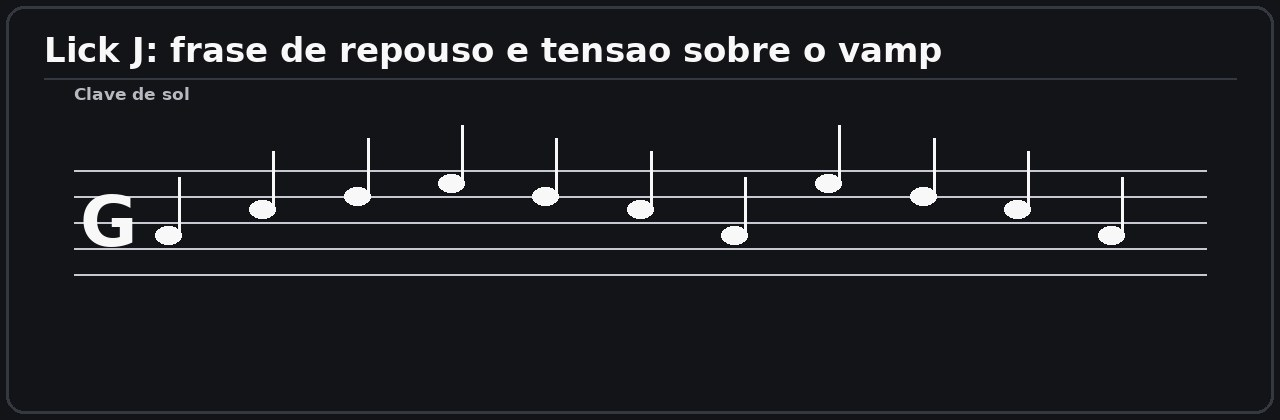
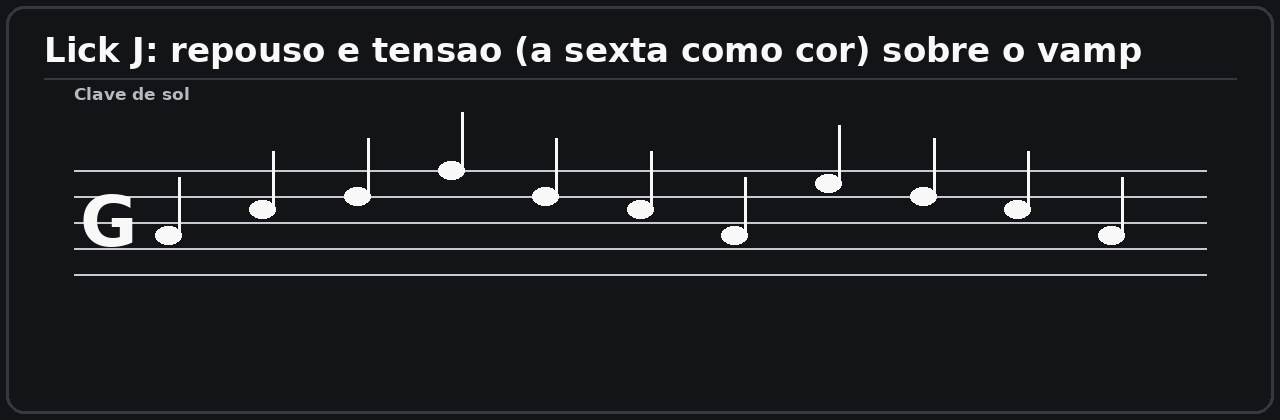
fix(conteudo): cada lick do modulo 11 cita o padrao que toca e o lick J soa a sexta
O cartao do lick imprime o id do padrao ao lado da frase, entao o padrao
citado tem de ser o que o aluno ouve.

- B, C, D, E, F, G, H e I citavam PTN-M-3rds / PTN-M-3 / PTN-A-TRIAD, mas
  as frases sao corridas de escala por graus conjuntos. Passam a citar
  PTN-M-SCALE (novo, documentado em MUSIC.md §1.A). A mantem PTN-M-3.
- O texto do topico J promete "tensao de cor (a sexta)" e a frase nao
  tocava sexta nenhuma. O lick, o audio, a partitura, o alvo de EX-11.J.1 e
  o gate passam a tocar Fa (A-C-D-F-D-C-A-E-D-C-A); m11_partitura_j e
  ScoreNotes.h foram regerados. O lick J passa a citar PTN-M-REST (novo,
  MUSIC.md §1.E), que descreve repouso e tensao em vez de uma sequencia.
- PatternSignature.h (course::patternSignatureHolds) e tres assercoes em
  testModule11: o lick toca o padrao que cita, o id existe no catalogo e o
  lick J contem a sexta. Reintroduzindo os dois defeitos a suite cai para
  8591/8595 (4 FAILs).
- Referencia de escuta de J corrigida para o nome real da faixa
  ("Black Magic Woman / Gypsy Queen").

Suite: 8595/8595 verdes; build sem avisos; rotulos conferidos na UI
(A -> PTN-M-3, B -> PTN-M-SCALE, J -> PTN-M-REST).

Changed region(s): [[0.125, 0.0929, 0.9062, 0.1548], [0.3438, 0.3714, 0.375, 0.4643]]

diff --git a/Source/Course/ModuleCatalog.cpp b/Source/Course/ModuleCatalog.cpp
@@ -5275,38 +5275,39 @@ namespace
         lick ("LK-11.A", "Grupos de três subindo na região", "John Petrucci", "PTN-M-3",
               "e|--5-7-8-7-8-10-8-10-12-10-12-13-12-13-15-13-15-17--|", "pdf-fraseado-melodico",
               { "A4", "B4", "C5", "B4", "C5", "D5", "C5", "D5", "E5", "D5", "E5", "F5", "E5", "F5", "G5", "F5", "G5", "A5" });
-        lick ("LK-11.B", "Escala ascendente e descendente", "Guthrie Govan", "PTN-M-3rds",
+        lick ("LK-11.B", "Escala ascendente e descendente", "Guthrie Govan", "PTN-M-SCALE",
               "e|--5-7-8-10-12-13-15-17-15-13-12-10-8-7-5--|", "pdf-fraseado-melodico",
               { "A4", "B4", "C5", "D5", "E5", "F5", "G5", "A5", "G5", "F5", "E5", "D5", "C5", "B4", "A4" });
-        lick ("LK-11.C", "Pentatônica menor 7 (a sétima menor)", "Richie Kotzen", "PTN-M-3",
+        lick ("LK-11.C", "Pentatônica menor 7 (a sétima menor)", "Richie Kotzen", "PTN-M-SCALE",
               "e|--5-8-10-12-15-17-15-12-10-8-5--|", "pdf-desvendando-os-segredos-da-guitarra-fusion",
               { "A4", "C5", "D5", "E5", "G5", "A5", "G5", "E5", "D5", "C5", "A4" });
-        lick ("LK-11.D", "Pentatônica menor 6 (a sexta como cor)", "Greg Howe", "PTN-M-3rds",
+        lick ("LK-11.D", "Pentatônica menor 6 (a sexta como cor)", "Greg Howe", "PTN-M-SCALE",
               "e|--5-8-10-12-14-12-10-8-5--|", "pdf-mozart-mello-improvisacion-pop",
               { "A4", "C5", "D5", "E5", "F#5", "E5", "D5", "C5", "A4" });
-        lick ("LK-11.E", "Pentatônica ligando duas posições", "Edu Ardanuy", "PTN-A-TRIAD",
+        lick ("LK-11.E", "Pentatônica ligando duas posições", "Edu Ardanuy", "PTN-M-SCALE",
               "e|--5-8-10-12-15-17-15-12-10-8-5--|", "pdf-mozart-mello-livroestudosdeguitarra4em1",
               { "A4", "C5", "D5", "E5", "G5", "A5", "G5", "E5", "D5", "C5", "A4" });
-        lick ("LK-11.F", "Trilha aberta na 3ª corda", "Joe Satriani", "PTN-M-3rds",
+        lick ("LK-11.F", "Trilha aberta na 3ª corda", "Joe Satriani", "PTN-M-SCALE",
               "G|--0-2-4-5-7-9-10-12-14--|", "pdf-fraseado-melodico",
               { "G3", "A3", "B3", "C4", "D4", "E4", "F4", "G4", "A4" });
-        lick ("LK-11.G", "Escala dentro da forma (Sistema 5)", "Kiko Loureiro", "PTN-A-TRIAD",
+        lick ("LK-11.G", "Escala dentro da forma (Sistema 5)", "Kiko Loureiro", "PTN-M-SCALE",
               "e|--5-8-10-12-13-15-17-15-12-8-5--|", "pdf-caged-e-derivaoes-de-acordes-marcelo-mello-apostila-de-violao-e-guitarra-vol1",
               { "A4", "C5", "D5", "E5", "F5", "G5", "A5", "G5", "E5", "C5", "A4" });
-        lick ("LK-11.H", "Menor harmônica (segunda aumentada)", "Yngwie Malmsteen", "PTN-M-3rds",
+        lick ("LK-11.H", "Menor harmônica (segunda aumentada)", "Yngwie Malmsteen", "PTN-M-SCALE",
               "e|--5-7-8-10-12-13-16-17-16-13-12-10-8-7-5--|", "pdf-fraseado-melodico",
               { "A4", "B4", "C5", "D5", "E5", "F5", "G#5", "A5", "G#5", "F5", "E5", "D5", "C5", "B4", "A4" });
-        lick ("LK-11.I", "Menor melódica (6ª e 7ª elevadas)", "Steve Vai", "PTN-M-3rds",
+        lick ("LK-11.I", "Menor melódica (6ª e 7ª elevadas)", "Steve Vai", "PTN-M-SCALE",
               "e|--5-7-8-10-12-14-16-17-16-14-12-10-8-7-5--|", "pdf-fraseado-melodico",
               { "A4", "B4", "C5", "D5", "E5", "F#5", "G#5", "A5", "G#5", "F#5", "E5", "D5", "C5", "B4", "A4" });
-        lick ("LK-11.J", "Frase de repouso e tensão sobre o vamp", "Santana", "PTN-M-3rds",
-              "e|--5-8-10-12-10-8-5-12-10-8-5--|", "pdf-mozart-mello-improvisacion-pop",
-              { "A4", "C5", "D5", "E5", "D5", "C5", "A4", "E5", "D5", "C5", "A4" });
+        lick ("LK-11.J", "Frase de repouso e tensão sobre o vamp", "Santana", "PTN-M-REST",
+              "e|--5-8-10-13-10-8-5-12-10-8-5--|", "pdf-mozart-mello-improvisacion-pop",
+              { "A4", "C5", "D5", "F5", "D5", "C5", "A4", "E5", "D5", "C5", "A4" });
 
-        // Simulated listening references (client request, 2026-11-18). Each song
-        // is a real recording where the cited player uses the same vocabulary as
-        // the topic's lick — never the lick itself, which is original. The UI
-        // labels all of these as "referência simulada (a mapear)".
+        // Listening references (client request, 2026-11-18). Each song is a real
+        // recording, verified track/album/year, where the cited player uses the
+        // same vocabulary as the topic's lick — never the lick itself, which is
+        // original. The UI labels each as "mesmo vocabulário, não a mesma frase"
+        // while the exact excerpt is unmapped (AGENTS.md §10, MUSIC.md §11.5).
         listen ("LK-11.A", "Dream Theater — \"Under a Glass Moon\" (Images and Words, 1992)",
                 "Sequências de grupos de três subindo a escala; mesmo desenho, frase diferente.");
         listen ("LK-11.B", "Guthrie Govan — \"Waves\" (Erotic Cakes, 2006)",
@@ -5325,7 +5326,7 @@ namespace
                 "Corridas ascendentes na menor harmônica, com a segunda aumentada; mesmo vocabulário, frase diferente.");
         listen ("LK-11.I", "Steve Vai — \"For the Love of God\" (Passion and Warfare, 1990)",
                 "Linhas cantáveis com a sexta e a sétima elevadas (menor melódica); mesmo vocabulário, frase diferente.");
-        listen ("LK-11.J", "Santana — \"Black Magic Woman\" (Abraxas, 1970)",
+        listen ("LK-11.J", "Santana — \"Black Magic Woman / Gypsy Queen\" (Abraxas, 1970)",
                 "Frases que alternam repouso no acorde e tensão de cor; mesmo vocabulário, frase diferente.");
 
         // Exercises: every one is played on the instrument and verified by the
@@ -5420,7 +5421,7 @@ namespace
 
         // --- Topic J — relação entre escalas e acordes -----------------------
         add (playable ("EX-11.J.1", "Tocar o lick J (repouso e tensão)", "Tocar o lick do tópico: a frase mistura repouso (acorde) e tensão de cor, resolvendo no acorde.",
-                       { "A4", "C5", "D5", "E5", "D5", "C5", "A4", "E5", "D5", "C5", "A4" }, "J"));
+                       { "A4", "C5", "D5", "F5", "D5", "C5", "A4", "E5", "D5", "C5", "A4" }, "J"));
         m.exercises.back().lickId = "LK-11.J";
         add (playable ("EX-11.J.2", "Arpejo de Am7", "Tocar o arpejo de Am7 (A-C-E-G) subindo e descendo, com a tônica como repouso.",
                        { "A4", "C5", "E5", "G5", "A5", "G5", "E5", "C5", "A4" }, "J"));
@@ -5433,7 +5434,7 @@ namespace
         auto& gate = m.exercises.emplace_back (playable (
             "GATE-11", "Desafio de gate — lick sobre a grade",
             "Tocar o lick do tópico J (repouso e tensão sobre o vamp de Lá menor) a 100 BPM, na grade do metrônomo.",
-            { "A4", "C5", "D5", "E5", "D5", "C5", "A4", "E5", "D5", "C5", "A4" }, "J"));
+            { "A4", "C5", "D5", "F5", "D5", "C5", "A4", "E5", "D5", "C5", "A4" }, "J"));
         gate.isGate = true;
         gate.lickId = "LK-11.J";
         gate.targetBpm = 100;
@@ -5447,9 +5448,11 @@ namespace
         // Pattern and links the module must cite (REQ-007, REQ-010).
         m.practice.patternId = "PTN-M-3";
         m.practice.patternUse = juce::String::fromUTF8 (
-            "O padrão de grupos de três (PTN-M-3) constrói as frases deste módulo: "
+            "O padrão de grupos de três (PTN-M-3) constrói a frase do tópico A: "
             "cada grupo sobe um grau, criando movimento contínuo dentro da região. "
-            "Complemento: PTN-M-3rds para ouvir as terças das escalas em movimento.");
+            "As demais frases correm a escala por graus conjuntos (PTN-M-SCALE), que "
+            "é o material de onde as sequências nascem, e a frase do tópico J alterna "
+            "repouso e tensão (PTN-M-REST).");
         m.practice.guitarists = { "John Petrucci", "Guthrie Govan", "Kiko Loureiro" };
 
         // Curated apostilas (REQ-006); see docs/MUSIC.md.

diff --git a/Source/Course/PatternSignature.h b/Source/Course/PatternSignature.h
@@ -1,0 +1,83 @@
+#pragma once
+
+#include <juce_core/juce_core.h>
+
+#include <cstdlib>
+#include <vector>
+
+namespace cursomusica::course
+{
+
+// Whether `notes` carries the musical signature of the numeric pattern it cites
+// (REQ-010). The lick card prints the pattern id beside the phrase, so a phrase
+// that cites thirds while playing stepwise seconds tells the student to expect a
+// sound that is not there.
+//
+// Patterns whose signature is not an interval shape (rhythmic ones, string
+// skipping) return true: the check only constrains what it can prove.
+inline bool patternSignatureHolds (const juce::String& patternId, const std::vector<int>& notes)
+{
+    if (notes.size() < 3)
+        return true;
+
+    std::vector<int> intervals;
+    intervals.reserve (notes.size() - 1);
+    for (size_t i = 1; i < notes.size(); ++i)
+        intervals.push_back (notes[i] - notes[i - 1]);
+
+    // 1-2-3, 2-3-4…: two steps up, then back down over the second one.
+    int groupsOfThree = 0;
+    for (size_t i = 0; i + 2 < intervals.size(); ++i)
+        if (intervals[i] > 0 && intervals[i + 1] > 0 && intervals[i + 2] == -intervals[i + 1])
+            ++groupsOfThree;
+
+    // Longest streak of consecutive leaps in one semitone class.
+    auto leaps = [&intervals] (int smallest, int largest)
+    {
+        int best = 0, run = 0;
+        for (auto interval : intervals)
+        {
+            const auto size = std::abs (interval);
+            run = (size >= smallest && size <= largest) ? run + 1 : 0;
+            best = juce::jmax (best, run);
+        }
+        return best;
+    };
+
+    // Longest run of neighbouring notes walking one direction (a scale run).
+    auto stepwiseNotes = [&intervals]
+    {
+        int best = 0, run = 0;
+        for (size_t i = 0; i < intervals.size(); ++i)
+        {
+            const auto sameDirection = i > 0 && (intervals[i] > 0) == (intervals[i - 1] > 0);
+            run = std::abs (intervals[i]) <= 4 ? (sameDirection ? run + 1 : 1) : 0;
+            best = juce::jmax (best, run);
+        }
+        return best > 0 ? best + 1 : 0;
+    };
+
+    if (patternId == "PTN-M-3" || patternId == "PTN-M-TRIQ")
+        return groupsOfThree >= 2;
+    if (patternId == "PTN-M-3rds")
+        return leaps (3, 4) >= 3;
+    if (patternId == "PTN-M-4ths")
+        return leaps (5, 6) >= 3;
+    if (patternId == "PTN-A-TRIAD")
+        return leaps (3, 4) >= 2;
+    if (patternId == "PTN-A-DROP2" || patternId == "PTN-A-DROP3")
+        return leaps (3, 4) >= 3;
+    if (patternId == "PTN-M-SCALE")
+        return stepwiseNotes() >= 5;
+
+    // A rest/tension phrase is not an interval shape: it alternates chord tones
+    // (rest) with a colour tension and resolves. What can be proven here is that
+    // it moves by more than a scale run would — it leaps at least once — so a
+    // phrase made only of neighbouring notes cannot claim to be one.
+    if (patternId == "PTN-M-REST")
+        return leaps (3, 12) >= 1 && stepwiseNotes() < (int) notes.size();
+
+    return true;
+}
+
+} // namespace cursomusica::course

diff --git a/tests/TestMain.cpp b/tests/TestMain.cpp
@@ -21,6 +21,7 @@
 #include "Course/Intervals.h"
 #include "Course/BackingProgression.h"
 #include "Course/ApostilaLabel.h"
+#include "Course/PatternSignature.h"
 #include "Course/ModuleCatalog.h"
 #include "Audio/BackingTrack.h"
 #include "Course/NoteMath.h"
@@ -3488,7 +3489,26 @@ void testModule11()
                    juce::String ("lick ") + found->id + " cites a guitarist (REQ-007)");
             check (found->patternId.isNotEmpty(),
                    juce::String ("lick ") + found->id + " cites a pattern (REQ-010)");
+
+            // The card prints the pattern id beside the phrase, so the phrase
+            // must actually carry that pattern's signature: a lick that cites
+            // thirds while playing stepwise seconds teaches the wrong sound.
+            check (course::patternSignatureHolds (found->patternId, found->notes),
+                   juce::String ("lick ") + found->id + " plays the pattern it cites ("
+                       + found->patternId + ")");
         }
+    }
+
+    // Every pattern id a lick cites exists in the catalogue (docs/MUSIC.md §1),
+    // so the card never names an id the course does not define.
+    {
+        const juce::StringArray catalogue { "PTN-M-3", "PTN-M-4", "PTN-M-SCALE",
+                                            "PTN-M-3rds", "PTN-M-4ths", "PTN-M-TRIQ",
+                                            "PTN-M-P31", "PTN-M-SKIP", "PTN-M-REST",
+                                            "PTN-A-TRIAD", "PTN-A-DROP2", "PTN-A-DROP3" };
+        for (const auto& lick : m11->licks)
+            check (catalogue.contains (lick.patternId),
+                   juce::String ("lick ") + lick.id + " cites a catalogued pattern id");
     }
 
     // The tab is the written reading of the phrase: every fret it names, on the
@@ -3601,6 +3621,24 @@ void testModule11()
             check (targetMidi == lk->notes,
                    juce::String ("the lick exercise of topic ") + topic.id
                        + " obliges exactly the lick notes");
+        }
+    }
+
+    // The topic J lick is the module's rest/tension phrase: its text promises the
+    // sixth as the colour tension, so the phrase must actually sound it. Without
+    // the sixth the lesson names a sound the student never hears.
+    {
+        const Lick* jLick = nullptr;
+        for (const auto& l : m11->licks)
+            if (l.id == "LK-11.J")
+                jLick = &l;
+        check (jLick != nullptr, "module 11 has the topic J lick");
+        if (jLick != nullptr)
+        {
+            // A minor: A=9. The sixth above the root is F (pitch class 5).
+            const bool soundsSixth = std::any_of (jLick->notes.begin(), jLick->notes.end(),
+                                                  [] (int midi) { return midi % 12 == 5; });
+            check (soundsSixth, "the topic J lick sounds the sixth it announces as tension");
         }
     }
 

diff --git a/Source/Course/Content/Topic11J.cpp b/Source/Course/Content/Topic11J.cpp
@@ -46,9 +46,9 @@ std::vector<ContentItem> topic11J()
         h ("O lick deste tópico"),
         p (
             "O lick abaixo é uma frase que mistura repouso e tensão sobre um vamp de Lá menor: começa na escala (repouso), passa por uma tensão de cor (a sexta) e resolve numa nota do acorde. É um gesto de fraseado sobre vamp modal, na linha de Santana — frases cantáveis que respiram sobre um só centro. Ouça como a frase sabe quando repousar e quando pedir."),
-        aud ({ "A4", "C5", "D5", "E5", "D5", "C5", "A4", "E5", "D5", "C5", "A4" },
+        aud ({ "A4", "C5", "D5", "F5", "D5", "C5", "A4", "E5", "D5", "C5", "A4" },
              "Lick do tópico J: frase sobre o vamp de Lá menor. As notas do acorde repousam; a sexta é tensão de cor; a frase resolve no A."),
-        part ("m11_partitura_j", { "A4", "C5", "D5", "E5", "D5", "C5", "A4", "E5", "D5", "C5", "A4" },
+        part ("m11_partitura_j", { "A4", "C5", "D5", "F5", "D5", "C5", "A4", "E5", "D5", "C5", "A4" },
               "Partitura do lick J: frase de repouso e tensão sobre o vamp. A resolução cai numa nota do acorde."),
 
         h ("O vamp tonal deste módulo"),

diff --git a/Source/Course/Content/ScoreNotes.h b/Source/Course/Content/ScoreNotes.h
@@ -39,7 +39,7 @@ inline const std::vector<Entry>& all()
         { "m11_partitura_g", { 69, 72, 74, 76, 77, 79, 81, 79, 76, 72, 69 } },
         { "m11_partitura_h", { 69, 71, 72, 74, 76, 77, 80, 81, 80, 77, 76, 74, 72, 71, 69 } },
         { "m11_partitura_i", { 69, 71, 72, 74, 76, 78, 80, 81, 80, 78, 76, 74, 72, 71, 69 } },
-        { "m11_partitura_j", { 69, 72, 74, 76, 74, 72, 69, 76, 74, 72, 69 } },
+        { "m11_partitura_j", { 69, 72, 74, 77, 74, 72, 69, 76, 74, 72, 69 } },
         { "m2_partitura_arpejo", { 60, 64, 67, 72, 67, 64, 60 } },
         { "m2_partitura_intervalos", { 60, 62, 64, 65, 67, 69, 71, 72 } },
         { "m2_partitura_terca", { 60, 64 } },

diff --git a/tools/make_diagrams.py b/tools/make_diagrams.py
@@ -3788,10 +3788,10 @@ def d_m11_partitura_i():
 
 def d_m11_partitura_j():
     return _m11_score("m11_partitura_j",
-                      [("A", 4, None), ("C", 5, None), ("D", 5, None), ("E", 5, None), ("D", 5, None),
+                      [("A", 4, None), ("C", 5, None), ("D", 5, None), ("F", 5, None), ("D", 5, None),
                        ("C", 5, None), ("A", 4, None), ("E", 5, None), ("D", 5, None), ("C", 5, None),
                        ("A", 4, None)],
-                      "Lick J: frase de repouso e tensao sobre o vamp")
+                      "Lick J: repouso e tensao (a sexta como cor) sobre o vamp")
 
 
 DIAGRAMS.update({

diff --git a/AGENTS.md b/AGENTS.md
@@ -386,6 +386,7 @@ Uma entrega só é "pronta" quando:
 | 2026-11-16 | integrador | **Integração das Etapas 3–10 (módulos 3–10) na branch `integra-modulos-3-10`.** As 8 branches de Etapa foram criadas do mesmo ponto de `test` (`40d10ef`) e conflitavam nos arquivos compartilhados; a integração resolve os conflitos por **união** (nenhum módulo descartado). `Source/Course/ModuleCatalog.cpp` foi reconstruído deterministicamente: `makeModule3()`..`makeModule10()` em ordem, os helpers de acorde do módulo 8 (`chordExercise`/`progressionExercise`) preservados, e o vetor de `getModules()` com `makeModule1..10` + placeholders 11..20 (a antiga regra "3..20 são placeholders" deixa de existir). `tests/TestMain.cpp` unificado com os `testModule3()`..`testModule10()`, o helper genérico `checkModuleCatalogShape()` (números únicos 1..20, âncora do módulo 1, todo `implemented` com lições/exercícios e achável por `findModule`) como **única** verificação do catálogo, e os helpers de coerência áudio↔legenda do módulo 6 (`declaredChords`/`namedScale`) preservados. `tools/make_diagrams.py` reconstruído a partir da versão do módulo 9 (que emite `Source/Course/Content/ScoreNotes.h`) somando os blocos `d_m3_*`..`d_m10_*` e a validação de nota do `staff()` do módulo 10; `CMakeLists.txt` (dois alvos) e `Source/Course/Content/Topics.h` unidos; `AGENTS.md` e `docs/MUSIC.md` unidos. Evidência: app + testes compilam **sem avisos**, suíte em **7192/7192 checagens verdes** (offline) e `ctest` verde; `python3 tools/make_diagrams.py` idempotente (`ScoreNotes.h` cobre as 44 partituras) | Os 8 módulos (Etapas 3–10) passam a coexistir numa única branch pronta para revisão final do release; `test` recebe o curso integrado |
 | 2026-11-17 | developer + qa | **Teste de uso executável (aceitação do cliente) e correção do painel de plugins.** Novo alvo console `CursoMusicaUsageTest` (`tests/usage/UsageTest.cpp`, ligado por `-DCURSOMUSICA_USAGE_TEST=ON`) que dirige as classes **reais** (sem mocks) na ordem do roteiro do cliente: (1) banco — `ensureSchema` cria o schema `curso-musica` e as 3 tabelas no PostgreSQL (porta padrão 5432), grava/lê/reseta; (2) VST3 — um plugin **de verdade** (`tests/usage/TestPlugin.cpp`, alvo `juce_add_plugin` `CursoMusicaTestPlugin`) é escrito numa pasta, a pasta entra em `PluginSearchPaths`, o Scan lista o plugin e "Add input chain" o tira do painel superior; (3) áudio — `AudioEngine` abre entrada/saída e o afinador reconhece E2/A2/D3 (silêncio → 0 Hz); (4) módulos — `EX-2.B.2` e o 1º/último tópico do último módulo implementado. O passo 2 revelou o defeito **QA-005**: o plugin **não saía do painel superior** ao entrar na cadeia, porque `createIdentifierString()` difere entre o scan (caminho do bundle `.vst3`) e a instância (binário interno `.so`) — corrigido com a chave estável `pluginchain::stableKey()` (`Source/Audio/PluginChainModel.h`), usada por `SettingsComponent`. Evidência: **38/38 checagens do teste de uso** e **7238/7238 da suíte unitária** verdes em `tools/usage-test.sh` (JACK dummy + PostgreSQL 17 em 5432); app, plugin e harness compilam sem avisos. Novo workflow `.github/workflows/usage-test.yml` (job Linux sempre, job **Windows em instalação limpa** em `test`/`main`) | O cliente tem um teste de uso **executável e verificável** (a "prova" que o `docs/QA.md` exige); o fluxo VST3 (pasta → scan → cadeia) passa a se comportar como o roteiro descreve |
 | 2026-11-17 | developer + qa | **Afinador reconhece a entrada configurada (QA-006).** O aluno escolhia entrada/saída em Configurações, saía e abria o Afinador — e não afinava. Causa: `AudioEngine::initialise()` sempre chamava `openBestInputDevice()`, que abre o **primeiro** dispositivo do backend; a escolha feita nas Configurações **não era persistida**, então a cada arranque o motor voltava para a entrada errada (dentro da mesma sessão a troca valia — daí o sintoma "só depois de reabrir"). Correção: novo `Source/Audio/DeviceSettings.*` (`DeviceSelection` serializável + `deviceSelectionIsAvailable`, lógica pura) e o `AudioEngine` passa a gravar a escolha em `audio/deviceSelection` (via `ChangeListener` do `AudioDeviceManager` e no `shutdown()`) e a **restaurá-la** no `initialise()`, caindo para a varredura padrão só quando não há escolha salva ou o dispositivo sumiu (desconectado ou backend diferente). Testes: `testDeviceSettings` (17 checagens) e o passo 3b do teste de uso (escolhe a 2ª entrada, reinicia o motor, exige a mesma) — **regressão verificada** (com a restauração desligada o passo volta a `TestAudio-inA`). Evidência: **7230/7230** na suíte e **25 checagens, 0 falhas** no teste de uso; app, testes e harness sem avisos | `Source/Audio/DeviceSettings.*`; `Source/Audio/AudioEngine.*`; `CMakeLists.txt`; `tests/TestMain.cpp`; `tests/usage/UsageTest.cpp`; `docs/QA.md` (QA-006) |
+| 2026-11-17 | developer + musician + qa | **Módulo 11: cada lick cita o padrão que de fato toca, e a frase do tópico J soa a sexta que anuncia (T2).** Dois defeitos de conteúdo no módulo 11 (Referências de escalas e domínio do braço): (1) **rótulo de padrão falso** — B, D, F, H, I citavam `PTN-M-3rds` (terças) e C, E, G citavam `PTN-M-3`/`PTN-A-TRIAD` (grupos de três/tríade), mas todas essas frases são **corridas de escala** por graus conjuntos; o cartão imprimia ao lado da frase um padrão que o aluno não ouvia. Criado `PTN-M-REST` para a frase de repouso/tensão (J) e `PTN-M-SCALE` para as corridas (documentados em `docs/MUSIC.md` §1.A e §1.E); A mantém `PTN-M-3`, que é o que toca. (2) **tensão ausente no lick J** — o texto prometia "tensão de cor (a sexta)", mas a frase tocava só A-C-D-E (acorde + 2ª): nenhuma sexta. O lick, o áudio do tópico, a partitura, o alvo de `EX-11.J.1` e o gate passaram a tocar **Fá** (A-C-D-**F**-D-C-A-E-D-C-A), e a partitura `m11_partitura_j` foi regerada (`tools/make_diagrams.py` + `ScoreNotes.h`). Prevenção: novo `Source/Course/PatternSignature.h` (`course::patternSignatureHolds` — lógica pura: grupos de três, saltos de 3ª/4ª, corrida por graus conjuntos, frase de repouso) e três asserções em `testModule11()`: o lick **toca** o padrão que cita, o id citado **existe** no catálogo, e o lick J **contém** a sexta (classe 5 em Lá menor). **Regressão verificada**: reintroduzindo os dois defeitos originais a suíte cai para **8591/8595** com 4 FAILs (assinatura de B, pauta×áudio de J, alvo de J e a sexta ausente). Também corrigida a referência de escuta de J para o nome real da faixa (*Black Magic Woman / Gypsy Queen*) e o comentário que ainda chamava as referências de "simuladas". Evidência: **8595/8595** verdes, build sem avisos, e os três rótulos conferidos na UI sob Xvfb (A → `PTN-M-3`, B → `PTN-M-SCALE`, J → `PTN-M-REST`) | `Source/Course/PatternSignature.h` (novo); `Source/Course/ModuleCatalog.cpp`; `Source/Course/Content/Topic11J.cpp`; `Source/Course/Content/ScoreNotes.h`; `tools/make_diagrams.py`; `docs/MUSIC.md` §1.A/§1.E/§11.5; `tests/TestMain.cpp` |
 | 2026-11-17 | integrador + qa | **Merge do teste de uso em `test` e republicação do instalador.** PR #23 (`feat/teste-de-uso` → `test`) mesclado (`--no-ff`, commit `e135a43`); backup `backup/feat-teste-de-uso-pre-merge` e tag `backup-feat-teste-de-uso-20261117` criados antes do push (§11). O push em `test` rodou o `release.yml` (run `43989947149`, success) e um `workflow_dispatch` com `commit_installer=true` (run `43990893261`, success) commitou o instalador (commit `af107e4`, 14.261.315 bytes, PE32, sha256 `94b748dc…`). O job **Windows** do `usage-test` reprovou por dois defeitos do próprio workflow, ambos corrigidos na branch `fix/usage-test-windows`: (a) o `choco install postgresql17` não define a senha do `postgres` quando a imagem já traz um PostgreSQL, e o job morria em "password authentication failed for user postgres" — agora sobe um cluster descartável com `initdb --auth=trust`; (b) o `-DPostgreSQL_ROOT` com `\` era escrito no `stage-windows-runtime.cmake` e quebrava o parser do CMake ("Invalid character escape '\P'") — as barras passam a ser normalizadas. O harness ganhou log por linha (`usage-test.log`), guarda por passo e encerramento `_Exit` pelo resultado das checagens, porque no Windows o processo morria com `0xC0000005` na destruição estática **depois** de todas as checagens passarem. Evidência: run `44000331070` com **Linux e Windows verdes** (Windows: 31 checagens, 0 falhas, 1 pulo legítimo por não haver dispositivo de áudio) | A versão de teste passa a ser provada no Windows — a plataforma onde o `.exe` roda — e não só no Linux |
 | 2026-11-17 | integrador + qa | **Merges de #24 e #25 em `test` e republicação do instalador (com a regra do teste de uso antes de publicar).** PR #24 (`fix/usage-test-windows`) mesclado (`8df9fbb`); PR #25 (`fix/afinador-dispositivo-configurado`, QA-006) conflitava em `AGENTS.md` e `tests/usage/UsageTest.cpp` — resolvido localmente mantendo as duas entradas do registro e integrando o passo 3b ao array guardado do harness do Windows (`daa0787`). Backup `backup/pre-merge-afinador-test` + tag criados antes do push (§11). **Regra nova do cliente: rodar o teste de uso antes de todo push/merge** — cumprida: build limpo sem avisos, **7229/7229** na suíte unitária e **41 checagens, 0 falhas, 0 pulos** no teste de uso (`tools/usage-test.sh`, com PostgreSQL 17 em 5432 via docker e JACK dummy), incluindo o novo passo 3b (o dispositivo escolhido nas Configurações sobrevive ao reinício). PR #25 mesclado (`08df9e3`); o `workflow_dispatch` com `commit_installer=true` (run `44163479834`, success) commitou o instalador (`884cded`, 14.262.781 bytes, PE32, sha256 `a13f97b3…`) | `test` recebe as correções QA-006 e do job Windows do teste de uso; instalador de teste atualizado com o afinador reconhecendo a entrada configurada |
 | 2026-11-17 | integrador | **Instruções do ai-memory no projeto (thin-client CLI, OpenHands sem MCP/hooks).** O cliente pediu instalar o ai-memory (v3.4.7) para uso **neste** projeto. Como o harness é OpenHands (não suportado pelo `setup --agent`) e o container não tem D-Bus/systemd, a integração é pela **CLI** (servidor manual em `http://127.0.0.1:49374`). Adicionados: marcador de escopo `.ai-memory.toml` (`workspace="default"`, `project="animetubeonlinebr-star-cursomusica"`), as 6 Agent Skills em `.agents/skills/ai-memory-*` e, em `AGENTS.md`, o bloco `<!-- ai-memory:start/end -->` (do `install-instructions`) mais o bloco **"Protocolo Obrigatório de Memória (CLI Sem Hooks)"** logo abaixo | A memória durável do projeto passa a ser consultada/gravada por CLI a cada tarefa; nenhum harness foi *wired* (não havia nenhum instalado), então nada a reiniciar neste ambiente |

diff --git a/docs/MUSIC.md b/docs/MUSIC.md
@@ -425,6 +425,7 @@ Avança na escala em blocos repetitivos.
 |---|---|---|
 | PTN-M-3 | Grupos de 3 (tercinas) | 1-2-3, 2-3-4, 3-4-5, 4-5-6… |
 | PTN-M-4 | Grupos de 4 (semicolcheias) | 1-2-3-4, 2-3-4-5, 3-4-5-6, 4-5-6-7… |
+| PTN-M-SCALE | Corrida de escala | 1-2-3-4-5-6-7-8 por graus conjuntos, sem salto; a frase sobe e desce |
 
 ### 1.B Salto de intervalos
 
@@ -449,6 +450,16 @@ Muda a direção a cada grupo de notas.
 |---|---|---|
 | PTN-M-P31 | Pattern 3-1 (em 5 posições) | sobe 3 notas, volta 1, retoma a subida |
 | PTN-M-SKIP | String skipping | toca na 6ª corda, pula para a 4ª, toca na 5ª, pula para a 3ª… |
+
+### 1.E Frase de repouso e tensão
+
+Não é uma sequência numérica: a frase alterna notas do acorde (repouso) com uma
+tensão de cor e resolve. A assinatura é a presença das duas classes, não um
+desenho de intervalos.
+
+| ID | Pattern | Característica |
+|---|---|---|
+| PTN-M-REST | repouso e tensão | notas do acorde como repouso, uma tensão de cor (6ª, 9ª…) e resolução numa nota do acorde |
 
 ## 2. Patterns rítmicos e de acompanhamento (base/groove)
 
@@ -1163,7 +1174,7 @@ vocabulário** que está estudando, não para conferir a transcrição.
 | LK-11.G | Kiko Loureiro — *No Gravity* (No Gravity, 2005) | Escala desenhada dentro da forma do acorde (Sistema 5) |
 | LK-11.H | Yngwie Malmsteen — *Far Beyond the Sun* (Rising Force, 1984) | Corridas ascendentes na menor harmônica |
 | LK-11.I | Steve Vai — *For the Love of God* (Passion and Warfare, 1990) | Linhas cantáveis com a 6ª e a 7ª elevadas |
-| LK-11.J | Santana — *Black Magic Woman* (Abraxas, 1970) | Frases que alternam repouso no acorde e tensão de cor |
+| LK-11.J | Santana — *Black Magic Woman / Gypsy Queen* (Abraxas, 1970) | Frases que alternam repouso no acorde e tensão de cor |
 
 Todas as músicas e álbuns acima foram conferidos (faixa ↔ álbum ↔ ano). A UI
 rotula cada uma como **"Referência de escuta — mesmo vocabulário, não a mesma
